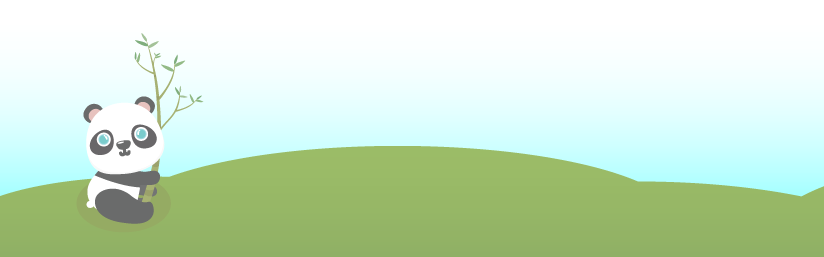
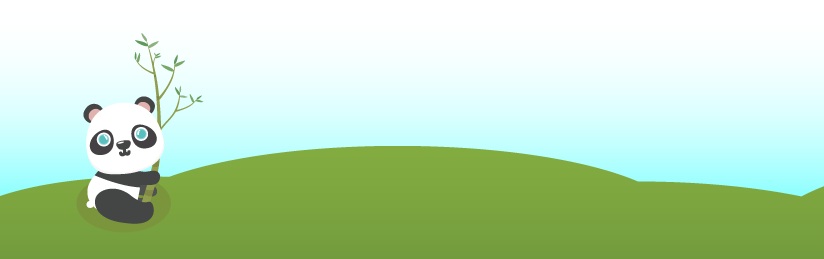
Chichichichichi changes... new connect button, now w/ more pandas!

diff --git a/src/assets/scss/style.scss b/src/assets/scss/style.scss
@@ -63,14 +63,14 @@ font-size: 24px;
 color: #000000;
 line-height: 24px;}
 h3 {font-size: 70px;font-weight: 400;color:$secondary-text-color;letter-spacing:-3px;}
-h3 span{color:$primary-text-color;font-size: 22px;font-weight: normal;margin-left: 15px;letter-spacing:0px;}
+h3 span{color:$primary-text-color;font-size: 18px;font-weight: normal;margin-left: 5px;letter-spacing:0px;}
 h4 {text-transform: uppercase;color: $secondary-text-color; font-family: $headers; font-size: 12px; display: inline;}
 .hidden{display: none !important;}
 .back-link{margin-top: 5px;}
-.panda{background: url('../imgs/panda-placeholder.png') no-repeat;background-size: 100%;background-position: bottom;margin-top: 30px;flex:1 1;position: absolute;width: 100%;height: 100%;margin-left: 0px;margin-right: 0px;bottom: 0px;z-index: 0;}
+.panda{background: url('../imgs/panda-placeholder.png') no-repeat;background-size: 100%;background-position: bottom;margin-top: 30px;flex:1 1;position: absolute;width: 100%;height: 100%;margin-left: 0px;margin-right: 0px;bottom: 0px;z-index: 0;opacity: .7;}
 .panda-flip{background: url('../imgs/panda-placeholder-flip.png') no-repeat;background-size: 100%;background-position: bottom;}
-.panda-center{background: url('../imgs/panda-placeholder-center.png') no-repeat;background-size: 100%;background-position: bottom;opacity: .7;}
-
+.panda-chi{background: url('../imgs/panda-coins.png') no-repeat;background-size: 100%;background-position: bottom;}
+.help-text{text-decoration:underline;}
 .pop-over-content {z-index: 3000;
   .message {width: 443px;
     left: -210px;
@@ -166,12 +166,14 @@ border-radius: 50%;
   overflow-y: hidden;
   z-index: 1000;
   transition: all 0.4s ease 0s;
+.connect-button{width: 84px;margin:auto;}
 .sidenav {
       background-color:$dark-bg-color;
       color: $white-text;
       color: #fff;
       height: 100vh;
       font-size: 13px;
+      .nav{margin-top:20px;}
       .dropup{position:absolute;bottom:60px;padding: 0px 15px;width:138px;
       .dropdown-menu{left: auto !important;top:auto !important;min-width:auto !important;
       .dropdown-item {padding: 10px 1.5rem;}}
@@ -201,6 +203,7 @@ border-radius: 50%;
 
 .dashboard-content{
   .row.equal-height{padding: 0px 15px;margin-left: 0px;  margin-right: 0px;}
+  .fa-question-circle{color: $primary-color;}
   height: 100vh;
   .last {.tooltip{margin-left: -140px;.tooltip-inner{&:before{left:97%;}}}}
 flex: 0 1;
@@ -236,7 +239,7 @@ letter-spacing: 0.5px;.card-title-data{color: $primary-text-color;padding-left: 
 	color:$secondary-text-color;
 
 		.card-help{position:absolute;top:5px;right:10px;
-			.fa-question-circle{color: $primary-color;}
+
       .tooltip{
       .tooltip-inner{width:300px;box-shadow: 0 0 0 2px #FFF;border: 2px dashed #79E2F5;}
     }
@@ -249,7 +252,7 @@ letter-spacing: 0.5px;.card-title-data{color: $primary-text-color;padding-left: 
 
 	}
 
-	.security-level{.card-content{display: flex;}}
+	.security-level{.card-content{img{width: 85%;}}}
 	/*Usage Summary*/
 	.usage-summary {
 	hr {margin-bottom: 0px;}

diff --git a/src/app/met-manager/met-manager.component.html b/src/app/met-manager/met-manager.component.html
@@ -1,5 +1,5 @@
 <router-outlet name="met-manager-modal"></router-outlet>
-<div class="row panda text-center">
+<div class="row panda panda-chi text-center">
 </div>
 <div class="row equal-height">
   <div class="col-sm-4"><!--this div should be hidden until people can actually earn CHI -->
@@ -52,7 +52,7 @@
     </div>
   </div>
 </div> <!-- end 1st row -->
-<div class="row equal-height">
+<div class="row equal-height" style="margin-top: 10px;">
   <div class="col-sm-4 info-data">
     <h4>Current CHI Balance</h4>
     <h3>465.34<span>CHI</span></h3>
@@ -64,5 +64,19 @@
     <a class="btn btn-second-primary btn-lg" href="#" role="button" [routerLink]="[ '', {outlets: { 'met-manager-modal': 'purchase-start' } }]">HOW TO SELL</a>
   </div>
 </div><!--end 2nd row-->
-<p>
-</p>
+<div class="row equal-height"  style="margin-top: 10px;">
+  <div class="col-lg-8 info-data">
+    <h4>Wallet Address <span class="card-help"><a ngbTooltip="Cryptocurrencies like Chi are stored and accessed using wallet addresses. This of it like your bank account, only without the bank!"  placement="bottom"><span class="fa fa-question-circle"></span></a></span></h4>
+    <div class="row">
+    <div class="col-lg-9">
+    0x177b46f8fCf57C5CA32747ecf57ed359481b16eD<br />
+    <a href="" class="help-text">Copy address to clipboard</a>
+  </div>
+  <div class="col-lg-3">
+    <img src="assets/imgs/etherwalletQRCode.jpg" align="right" width="90" />
+</div>
+
+  </div>
+
+</div>
+</div><!--end 3rd row-->

diff --git a/src/app/dashboard/dashboard.component.html b/src/app/dashboard/dashboard.component.html
@@ -67,13 +67,9 @@
         <span class="card-help"><a ngbTooltip="Your security level determines how many nodes your connection will pass through. Higher security level = more nodes." placement="bottom"><span class="fa fa-question-circle"></span></a></span>
       </div>
       <div class="h-100 card-block justify-content-end" ng-controller="Ctrl" ng-app="sec-val">
-        <div class="card-content h-80 justify-content-end">
-	  <h3 class="card-text"><output for="security-range" id="sec-lev">{{security.level}}</output></h3>
-	</div>
+        <div class="card-content h-80 justify-content-end"><!-- not connected show this image  <img src="assets/imgs/connection-not-connected.gif" align="center" /> --><img src="assets/imgs/connection-animation.gif" align="center" /></div>
         <div class="card-action-container h-20 justify-content-end">
-          <form name="set-security-level">
-            <input id="security-slider" type="range" min="0" max="10" value="5" name="security.level" step="1" [(ngModel)]="security.level"  />
-          </form>
+          <h6 class="text-center" style="margin-top: 15px;text-transform:uppercase;">Secure Connection <!--Inactive-->Active</h6>
         </div>
       </div>
     </div>

diff --git a/src/app/app.component.html b/src/app/app.component.html
@@ -4,16 +4,21 @@
   <div id="sidebar-wrapper" class="row">
     <div class="sidenav col">
       <div class="navbar navbar-inverse sidebar-navbar">
+        <div class="text-center">
+        <a class="text-center"><!-- show when connected <img src="assets/imgs/button-connected.png" align="center" class="connect-button" /> --><img src="assets/imgs/button-not-connected.png" align="center" class="connect-button" /></a>
+        <br />
+        Connect
+      </div>
         <ul class="nav flex-column nav-pills nav-stacked">
-
+<!--
           <li class="nav-item">
             <a title="connect" class="nav-link" data-toggle="tooltip">
               <label class='toggler__label'>
                 <input type="checkbox" hidden>
-                <div class='toggler'><div class="status"></div></div>
+                <div class='toggler' ng-click="connected = !connected"><div class="status"></div></div>
               </label>
             </a>
-          </li>
+          </li> -->
 
           <li class="nav-item nav-item-inverse">
             <a routerLink="/dashboard" routerLinkActive="active" class="nav-link"><span class="fa fa-area-chart"></span> Dashboard</a>
